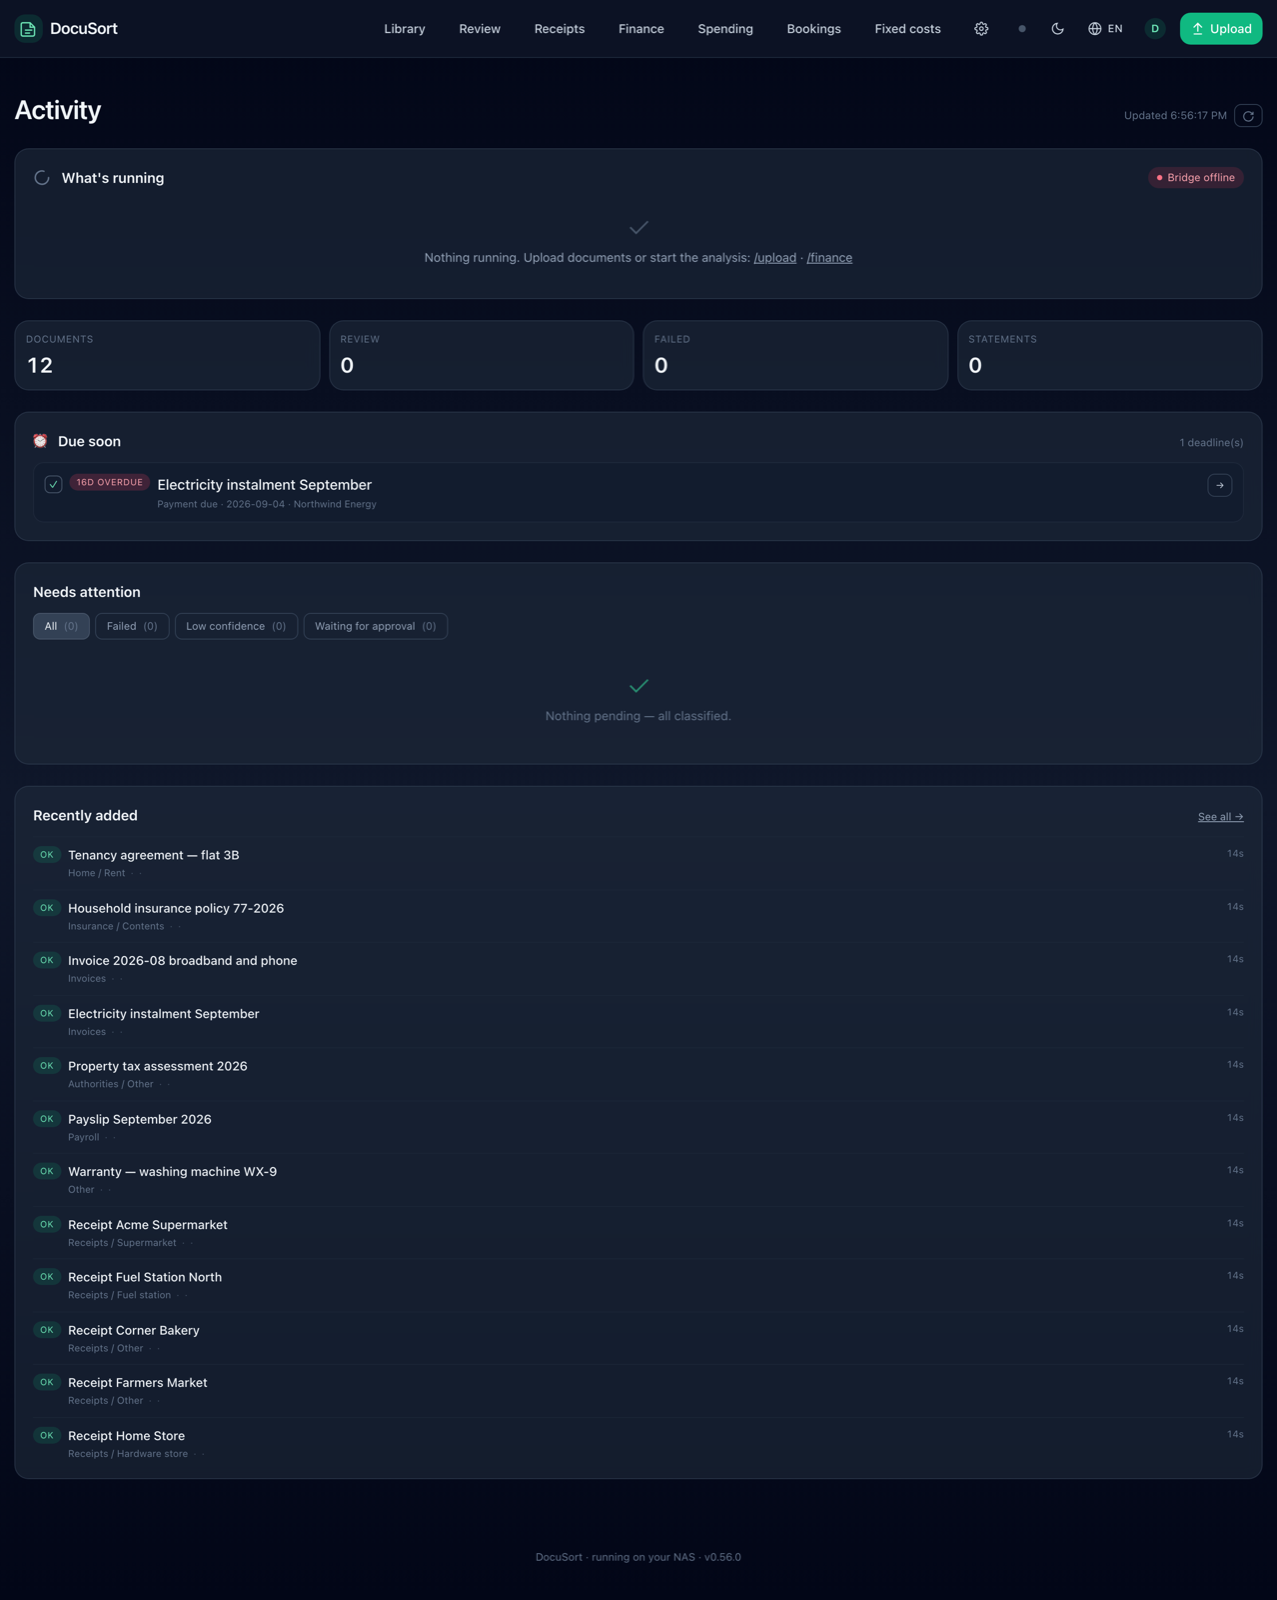
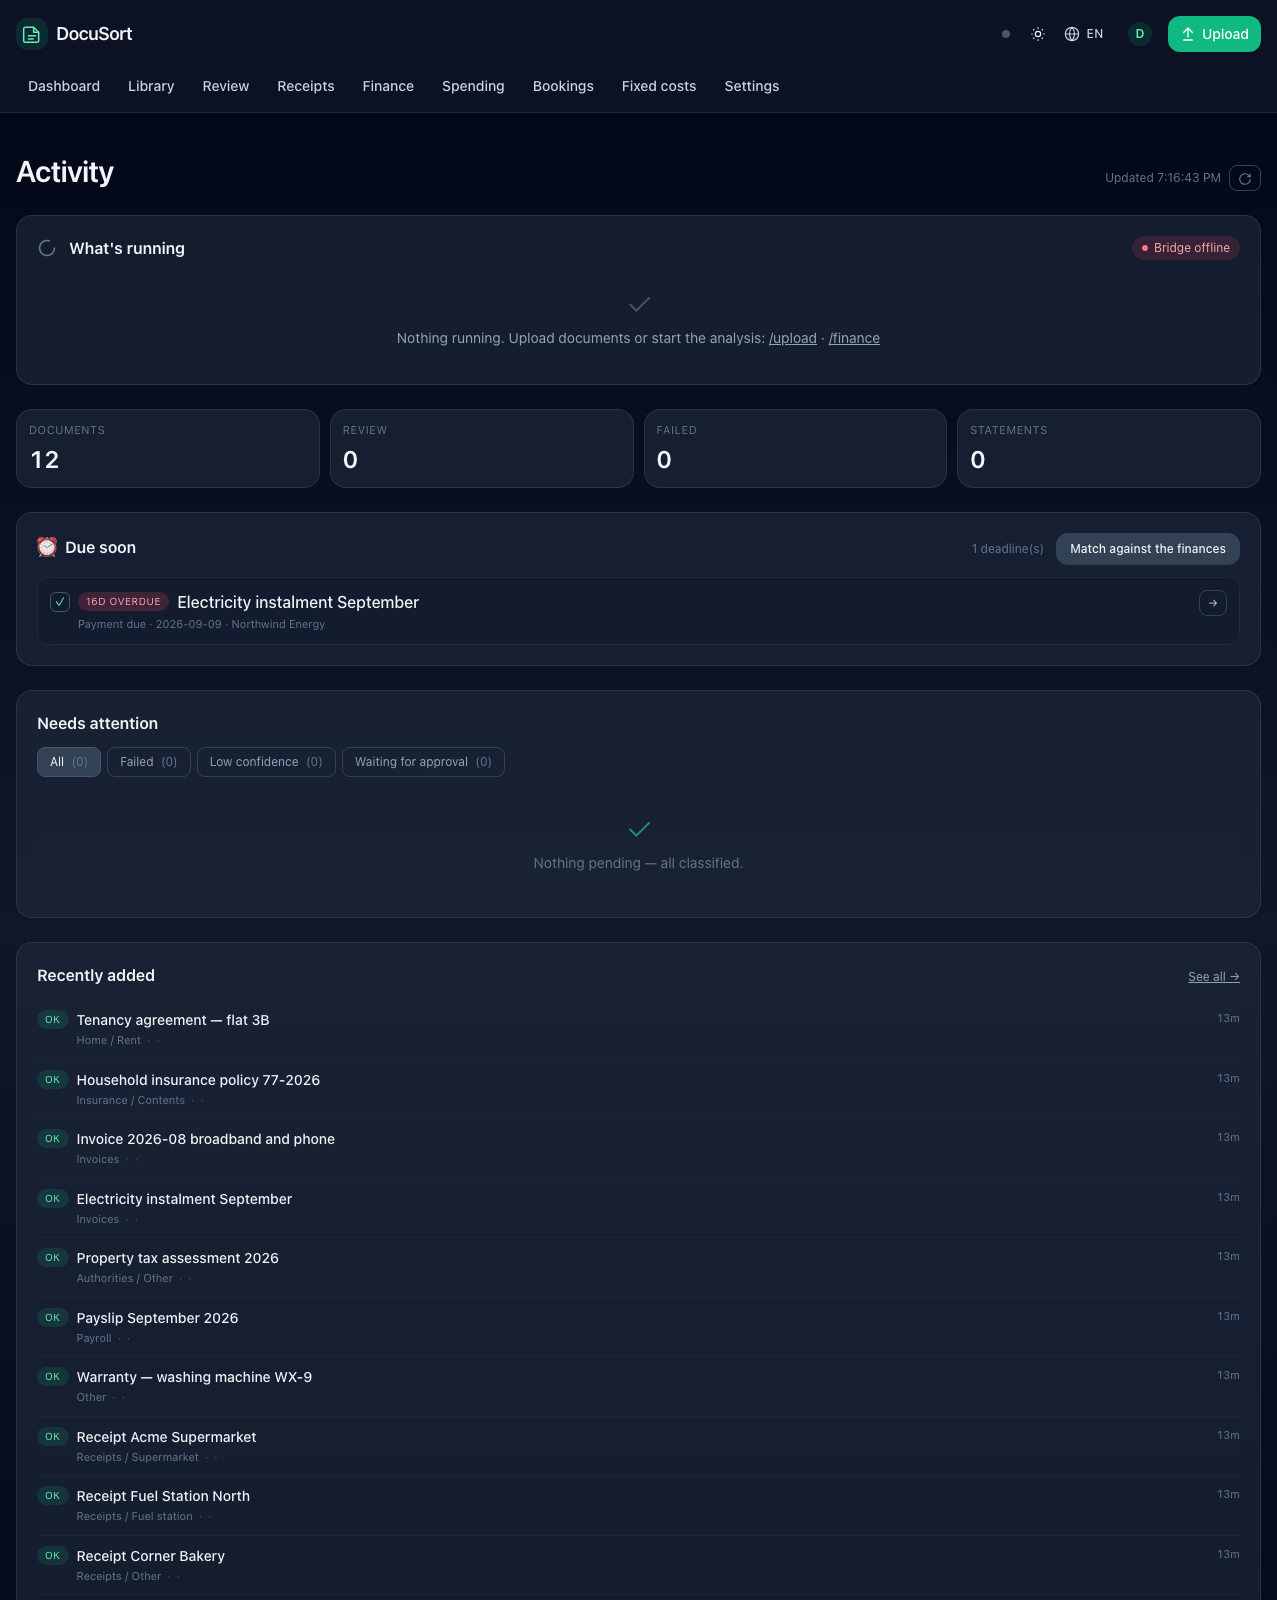
DocuSort 0.60.0 — the right update path for the install you actually have
In a container "Update now" did the wrong thing, silently: the updater
swapped the code directories, found no systemd to restart, and the next
`docker compose up` handed the old code back without a word.

- updater.in_container() + ContainerUpdateError; POST /api/update -> 409
- the banner shows the docker compose command instead of a button
- GET /api/version carries container + update_command
- the image sets DOCUSORT_IN_DOCKER=1
- Watchtower as a commented opt-in (compose file and installer)
- README chapter "Updating": Docker never re-pulls a running container
- deadline card on a phone: the chip moved into the text column and the
  title wraps instead of truncating (in a flex row a nowrap child shrinks
  rather than wrapping — that was the real trap)
- fresh dashboard screenshots from the demo instance

🤖 Generated with [Claude Code](https://claude.com/claude-code)

diff --git a/docusort/web/templates/dashboard.html b/docusort/web/templates/dashboard.html
@@ -221,14 +221,25 @@
                 <span class="text-xs leading-none">✓</span>
               </button>
             </template>
-            <span class="shrink-0 inline-flex items-center rounded-full px-2 py-0.5 text-[10px] uppercase tracking-wider"
-                  :class="d.paid_at ? 'bg-emerald-500/20 text-emerald-300' : dueClass(d.due_date)"
-                  x-text="d.paid_at ? (T['dashboard.deadlines.paid'] || 'Bezahlt') : dueWhen(d.due_date)"></span>
+            {# Chip and title share ONE line and wrap together. They used to be
+               siblings of the text column, and on a phone the chip's fixed
+               width left ~120 px for the subject: every title came out as
+               "Elect…" and the line below ran one word per line. Inside the
+               column the chip simply moves onto its own line when it has to. #}
             <div class="flex-1 min-w-0">
-              <a :href="'/document/' + d.id"
-                 class="block font-medium hover:text-emerald-300 truncate"
-                 :class="d.paid_at ? 'text-ink-300' : 'text-ink-100'"
-                 x-text="d.subject || d.filename || ('Dok ' + d.id)"></a>
+              <div class="flex items-center gap-2 flex-wrap">
+                <span class="shrink-0 inline-flex items-center rounded-full px-2 py-0.5 text-[10px] uppercase tracking-wider"
+                      :class="d.paid_at ? 'bg-emerald-500/20 text-emerald-300' : dueClass(d.due_date)"
+                      x-text="d.paid_at ? (T['dashboard.deadlines.paid'] || 'Bezahlt') : dueWhen(d.due_date)"></span>
+                <a :href="'/document/' + d.id"
+                   {# NOT `truncate`: in a flex row a nowrap child shrinks instead
+                      of wrapping, so on a phone the subject came out as "Elect…"
+                      however much room the row had. Wrapping costs one line and
+                      says what the document is. #}
+                   class="font-medium hover:text-emerald-300 break-words"
+                   :class="d.paid_at ? 'text-ink-300' : 'text-ink-100'"
+                   x-text="d.subject || d.filename || ('Dok ' + d.id)"></a>
+              </div>
               <div class="text-[11px] text-ink-500 mt-0.5">
                 <span x-text="dueKindLabel(d.due_kind)"></span>
                 <span> · </span><span x-text="d.due_date"></span>

diff --git a/docusort/web/templates/base.html b/docusort/web/templates/base.html
@@ -256,9 +256,22 @@
           {{ t('update.release_notes') }}
         </a>
       </div>
-      <button type="button" @click="install()" class="btn-primary">
-        {{ t('update.install_now') }}
-      </button>
+      {# In a container the in-app updater cannot work: the code comes from
+         the image, so a file swap is undone by the next restart. Show the
+         command that does work instead of a button that cannot. #}
+      <template x-if="!info.container">
+        <button type="button" @click="install()" class="btn-primary">
+          {{ t('update.install_now') }}
+        </button>
+      </template>
+      <template x-if="info.container">
+        <div class="w-full sm:w-auto">
+          <div class="text-xs text-ink-400 mb-1">{{ t('update.docker_hint') }}</div>
+          <code class="block rounded-lg bg-ink-900/70 border border-ink-700 px-3 py-2
+                       text-xs text-ink-200 break-words"
+                x-text="info.update_command || 'docker compose pull && docker compose up -d'"></code>
+        </div>
+      </template>
     </div>
   </template>
 

diff --git a/docusort/updater.py b/docusort/updater.py
@@ -39,6 +39,44 @@ REPO = os.environ.get("DOCUSORT_UPDATE_REPO", "robeertm/DocuSort")
 API_LATEST = f"https://api.github.com/repos/{REPO}/releases/latest"
 TARBALL = "https://codeload.github.com/{repo}/tar.gz/refs/tags/{tag}"
 
+# The command a container install uses instead of the in-app updater.
+CONTAINER_UPDATE_COMMAND = "docker compose pull && docker compose up -d"
+
+
+class ContainerUpdateError(RuntimeError):
+    """Raised when the in-app updater is asked to run inside a container.
+
+    It has to refuse, and the reason is not squeamishness. This updater
+    swaps the code directories under the project root and then restarts the
+    systemd unit. In a container the code comes from the IMAGE: the swap
+    would succeed, there is no systemd to restart, and the next
+    `docker compose up` would quietly hand the old code back. The user
+    would see "updated", restart, and be on the old version again — the
+    worst kind of failure, the silent one.
+    """
+
+
+def in_container() -> bool:
+    """True when this process runs inside a container image.
+
+    Checked in order of trustworthiness: our own image sets the variable,
+    Docker writes /.dockerenv, Podman writes /run/.containerenv, and the
+    cgroup line is the last resort (on cgroup v2 it is often just "0::/",
+    so it cannot be the only test).
+    """
+    flag = os.environ.get("DOCUSORT_IN_DOCKER", "").strip().lower()
+    if flag in {"1", "true", "yes", "on"}:
+        return True
+    if flag in {"0", "false", "no", "off"}:
+        return False
+    if Path("/.dockerenv").exists() or Path("/run/.containerenv").exists():
+        return True
+    try:
+        cgroup = Path("/proc/1/cgroup").read_text(encoding="utf-8", errors="replace")
+    except OSError:
+        return False
+    return any(m in cgroup for m in ("docker", "containerd", "kubepods", "libpod"))
+
 # Relative paths inside the install that survive an update. Everything else
 # under the project root gets replaced with whatever the tarball contains.
 PRESERVE: tuple[str, ...] = (".env", "config", ".venv", "logs")
@@ -93,6 +131,7 @@ def version_info() -> dict[str, Any]:
     Never raises — on network errors returns `has_update=False` with an
     `error` string the UI can show.
     """
+    container = in_container()
     try:
         rel = fetch_latest_release()
     except Exception as exc:
@@ -101,6 +140,8 @@ def version_info() -> dict[str, Any]:
             "latest": None,
             "has_update": False,
             "error": str(exc),
+            "container": container,
+            "update_command": CONTAINER_UPDATE_COMMAND if container else "",
         }
     tag = (rel.get("tag_name") or "").strip()
     latest = tag.lstrip("v")
@@ -112,6 +153,10 @@ def version_info() -> dict[str, Any]:
         "html_url": rel.get("html_url"),
         "body": (rel.get("body") or "")[:4000],
         "published_at": rel.get("published_at"),
+        # The interface needs to know WHICH update path applies before it
+        # offers a button that cannot work here.
+        "container": container,
+        "update_command": CONTAINER_UPDATE_COMMAND if container else "",
     }
 
 
@@ -191,6 +236,12 @@ def install_latest(force: bool = False, tag: str | None = None) -> dict[str, Any
     codeload.github.com — useful when the (unauthenticated) GitHub
     REST API is rate-limited but the codeload CDN still serves
     tarballs."""
+    if in_container():
+        raise ContainerUpdateError(
+            "This DocuSort runs in a container — the image carries the code, "
+            "so swapping files here would be undone by the next restart. "
+            "Update the image instead: " + CONTAINER_UPDATE_COMMAND
+        )
     if tag:
         # Manual override path: trust the caller, skip the API check.
         latest = tag.lstrip("v")

diff --git a/docusort/web/app.py b/docusort/web/app.py
@@ -3983,6 +3983,10 @@ def create_app(
         from .. import updater
         try:
             result = updater.install_latest(tag=tag)
+        except updater.ContainerUpdateError as exc:
+            # Not a failure — the wrong door. 409 so the interface can show
+            # the command that does work here instead of an error.
+            raise HTTPException(409, str(exc)) from None
         except Exception as exc:
             logger.exception("Update failed")
             raise HTTPException(500, f"Update failed: {exc}")

diff --git a/docusort/__init__.py b/docusort/__init__.py
@@ -1,5 +1,5 @@
 """DocuSort – AI-powered document organizer for Synology and beyond."""
 
-__version__ = "0.59.0"
+__version__ = "0.60.0"
 __author__ = "robeertm"
 __license__ = "Proprietary"

diff --git a/CHANGELOG.md b/CHANGELOG.md
@@ -7,6 +7,43 @@ This file starts with the first public release. The project was developed
 privately before that; the summary under *0.1.0 – 0.55.0* lists what arrived
 along the way rather than every single step.
 
+## [0.60.0] – 2026-09-25
+
+### Fixed
+- 🔴 **In a container, "Update now" did the wrong thing — silently.** The
+  in-app updater downloads a release, swaps the code directories and
+  restarts the systemd unit. That is the right move on a source install and
+  the wrong one in a container, where the code is part of the image: the
+  swap succeeded, there was no systemd to restart, and the next
+  `docker compose up` handed the old code back without a word. You would
+  see "updated", restart, and be on the old version. There was no container
+  check anywhere. Now `updater.in_container()` decides (our own image sets
+  `DOCUSORT_IN_DOCKER=1`; otherwise `/.dockerenv`, `/run/.containerenv`, and
+  the cgroup line as a last resort), `install_latest()` refuses with a
+  `ContainerUpdateError`, and `POST /api/update` answers **409** with the
+  command that does work — not a 500, because this is the wrong door, not a
+  failure.
+- 🔴 **On a phone the deadline card was unreadable.** The overdue chip sat
+  next to the subject as a `shrink-0` sibling, so at 320–430 px the title
+  was cut to "Elect…" and the line below ran up to **seven** lines, one word
+  each. The chip now lives inside the text column and wraps with the title,
+  and the title wraps instead of truncating (in a flex row a `nowrap` child
+  shrinks rather than wrapping — that was the actual trap). Measured at
+  320/360/375/390/430/500/644/1277 px: nothing truncated, no sideways scroll.
+
+### Added
+- **The update banner now shows the right path for the install it is in.**
+  From source: the **Update now** button as before. In a container: the
+  `docker compose pull && docker compose up -d` command, with a line saying
+  why. `GET /api/version` carries `container` and `update_command`.
+- **Watchtower as an opt-in**, commented out in `docker-compose.yml` and in
+  the installer's generated file — nightly at 04:00, not hourly. The comment
+  says what it costs: Watchtower needs the Docker socket, which is
+  effectively root on the host.
+- **A README chapter "Updating"** that opens with the sentence people miss:
+  Docker never re-pulls a running container — `:latest` is a label, not a
+  subscription.
+
 ## [0.59.0] – 2026-09-25
 
 ### Added

diff --git a/README.md b/README.md
@@ -206,6 +206,43 @@ poppler`).
 
 ---
 
+## Updating
+
+**Docker never re-pulls a running container.** `:latest` is a label, not a
+subscription — pointing at it does not mean your container follows it. Until
+you say so, DocuSort stays on the image you pulled.
+
+```bash
+cd <your docusort directory>
+docker compose pull && docker compose up -d
+```
+
+Your documents, database and config live in the mounted volumes, so replacing
+the image leaves them untouched.
+
+### Having it done for you
+
+`docker-compose.yml` ships a commented **Watchtower** block. Uncomment it and
+new images are pulled on a daily schedule. Two things to weigh first:
+
+* Watchtower needs the **Docker socket**, which is effectively root on the
+  host. It is mounted read-only here, but it is still a privilege you are
+  handing to a container.
+* It updates on *its* schedule, which may be while you are mid-upload. The
+  shipped schedule is nightly at 04:00 rather than hourly for that reason.
+
+### Running from source
+
+There the in-app updater applies: when a release is out, a banner offers
+**Update now**, which fetches the release, swaps the code in place and
+restarts the systemd service if one is installed.
+
+🔴 **In a container that same button is refused, on purpose.** The code is part
+of the image, so swapping files inside the container would be undone by the
+next restart — you would see "updated", restart, and silently be back on the
+old version. In a container the banner therefore shows the `docker compose`
+command instead of a button.
+
 ## First run
 
 1. **Create the admin account** — the first visit asks for it; nothing is
